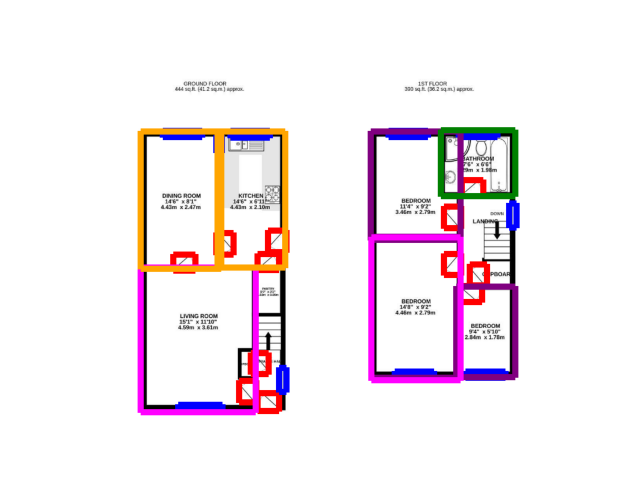
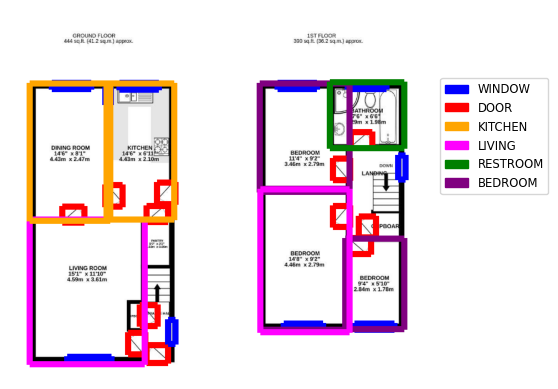
Add a confidence threshold option and output, add a legend to the figures

Changed region(s): [[0.0305, 0.1542, 0.9749, 0.9563], [0.1219, 0.0617, 0.2437, 0.1234], [0.5179, 0.0617, 0.6398, 0.1234]]

diff --git a/asf_floorplan_interpreter/pipeline/predict_floorplan.py b/asf_floorplan_interpreter/pipeline/predict_floorplan.py
@@ -13,10 +13,20 @@ from asf_floorplan_interpreter.utils.model_utils import load_model_s3, load_mode
 
 class FloorplanPredictor(object):
     """
-    Predict segments in a floorplan using pretrained models.
+    Predict segments and the counts of each label type in a floorplan using pretrained models.
     Arguments:
-            labels (list): which labels to predict from ["ROOM", "WINDOW", "DOOR",
-    "STAIRCASE", "KITCHEN", "LIVING", "RESTROOM", "BEDROOM", "GARAGE", "OTHER"]
+        labels (list): which labels to predict from ["ROOM", "WINDOW", "DOOR",
+    "STAIRCASE", "KITCHEN", "LIVING", "RESTROOM", "BEDROOM", "GARAGE", "OTHER"] this list will inform
+        which models are needed.
+        config_name (str): the name of the config file to use. This file will give the names of the
+            models to use.
+
+    Methods:
+        load: Load the neccessary models
+        predict_labels: Input an image URL or local pathway and output where the label segments are,
+            as well as counts of each label.
+        plot: Plot the label segments on the original floorplan image.
+
     """
 
     def __init__(
@@ -103,7 +113,21 @@ class FloorplanPredictor(object):
             ):
                 self.room_type_model = load_model_s3(self.room_type_model_name)
 
-    def predict_labels(self, image_url, correct_kitchen=True):
+    def predict_labels(self, image_url, correct_kitchen=True, conf_threshold=0):
+        """
+        Predict label segments and a counts of labels using the loaded models for a floorplan.
+
+        Arguments:
+            image_url (str): A URL or a local directory of your floorplan image.
+            correct_kitchen (bool): Whether to at a minimum predict 1 kitchen per floorplan (True) or not (False).
+            conf_threshold (float): The prediction confidence threshold for outputted labels.
+
+        Outputs:
+            labels (list): A list of the predicted image segments for each label, this is in the form
+                [{'label': 'DOOR', 'points': [[525.348, 319.445], ...], 'type': 'polygon', 'confidence': 0.9}, ...]
+            label_counts (dict): A summary of the counts of all labels found for this image. For example,
+                {'DOOR': 12, 'WINDOW': 10, 'LIVING': 2, 'KITCHEN': 2, 'BEDROOM': 3, 'RESTROOM': 1}
+        """
         labels = []
         if "ROOM" in self.labels_to_predict:
             results = self.room_model(image_url, save=False, verbose=False)
@@ -130,8 +154,15 @@ class FloorplanPredictor(object):
             results = self.room_type_model(image_url, save=False, verbose=False)
             labels += yolo_2_segments(results)
 
-        # Remove any labels you aren't asking for
-        labels = [label for label in labels if label["label"] in self.labels_to_predict]
+        # Remove any labels you aren't asking for and only if the prediction probability is over a threshold
+        labels = [
+            label
+            for label in labels
+            if (
+                (label["label"] in self.labels_to_predict)
+                and (label["confidence"] >= conf_threshold)
+            )
+        ]
 
         # Get label counts
         label_counts = defaultdict(int)
@@ -146,9 +177,18 @@ class FloorplanPredictor(object):
         return labels, dict(label_counts)
 
     def plot(self, image_url, labels, output_name, plot_label=True):
+        """
+        Plot your predicted labels on the floorplan
+
+        Arguments:
+            image_url (str): A URL or a local directory of your floorplan image.
+            labels (list): The list of labels, in the format returned from running predict_labels.
+            output_name (str): The directory for the outputted image.
+            plot_label (bool): Whether to plot the text of each bounding box label or not.
+        """
         visual_image = load_image(image_url)
         visual_image = overlay_boundaries_plot(
             visual_image, labels, show=False, plot_label=plot_label
         )
 
-        visual_image.savefig(output_name)
+        visual_image.savefig(output_name, bbox_inches="tight")

diff --git a/asf_floorplan_interpreter/utils/visualise_image.py b/asf_floorplan_interpreter/utils/visualise_image.py
@@ -1,5 +1,7 @@
 import numpy as np
 import matplotlib.pyplot as plt
+from matplotlib.patches import Rectangle
+
 from PIL import Image, ImageDraw, ImageFont
 from asf_floorplan_interpreter.getters.get_data import (
     load_prodigy_jsonl_s3_data,
@@ -83,8 +85,10 @@ def overlay_boundaries_plot(
     draw = ImageDraw.Draw(visual_image)
 
     # Overlay bounding boxes and labels on the image
+    labels_found = set()
     for label in labels:
         if label["type"] == "polygon":
+            labels_found.add(label["label"])
             label["color"] = label_colors.get(label["label"], "black")
             points = label["points"]
             for i in range(len(points)):
@@ -103,8 +107,17 @@ def overlay_boundaries_plot(
                 )  # Adjust font and fill color as needed
 
     # Display the image with the overlaid bounding boxes and labels
+    handles = [
+        Rectangle((0, 0), 1, 1, color=v)
+        for k, v in label_colors.items()
+        if k in labels_found
+    ]
+    labels = [k for k in label_colors.keys() if k in labels_found]
+
     plt.imshow(np.array(visual_image))
     plt.axis("off")
+    if not plot_label:
+        plt.legend(handles, labels, loc=(1.04, 0.5), fontsize="small")
     if show:
         plt.show()
     else:

diff --git a/asf_floorplan_interpreter/utils/model_utils.py b/asf_floorplan_interpreter/utils/model_utils.py
@@ -27,7 +27,9 @@ def evaluate_model(true_labels, pred_labels):
 
 def yolo_2_segments(results):
     segments = []
-    for (x, y, w, h), label in zip(results[0].boxes.xywh, results[0].boxes.cls):
+    for (x, y, w, h), label, conf in zip(
+        results[0].boxes.xywh, results[0].boxes.cls, results[0].boxes.conf.numpy()
+    ):
         x_min = x.item() - (w.item() / 2)
         y_min = y.item() - (h.item() / 2)
         x_max = x.item() + (w.item() / 2)
@@ -38,6 +40,7 @@ def yolo_2_segments(results):
                 "label": results[0].names[label.item()],
                 "points": segment,
                 "type": "polygon",
+                "confidence": round(conf, 3),
             }
         )
     return segments

diff --git a/asf_floorplan_interpreter/pipeline/README.md b/asf_floorplan_interpreter/pipeline/README.md
@@ -18,7 +18,7 @@ img = 'outputs/figures/floorplan.png'
 
 fp = FloorplanPredictor(labels_to_predict = ["WINDOW", "DOOR","KITCHEN", "LIVING", "RESTROOM", "BEDROOM", "GARAGE"])
 fp.load(local=True)
-labels, label_counts = fp.predict_labels(img)
+labels, label_counts = fp.predict_labels(img, conf_threshold=0)
 fp.plot(img, labels, "outputs/figures/floorplan_prediction.png", plot_label=False)
 
 ```
@@ -30,6 +30,10 @@ The image created will look like the following.
 <p align="center">
   <img src="../../outputs/figures/floorplan_prediction.png" />
 </p>
+
+You can tweak the `conf_threshold` argument to only output labels with a higher confidence in the predicted result.
+
+In the above example, running `labels, label_counts = fp.predict_labels(img, conf_threshold=0.5)` gives 2 fewer doors (cupboard doors were removed) and 1 fewer kitchen (the mislabelled dining room is removed as a kitchen label).
 
 ## Training data
 
